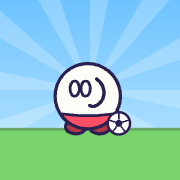
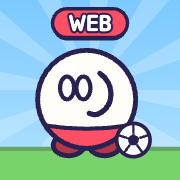
홈 화면 아이콘을 앱 아이콘과 같게 + WEB 표시

diff --git a/tools/icon.html b/tools/icon.html
@@ -2,12 +2,22 @@
 <html><head><meta charset="utf-8"><style>html,body{margin:0;background:#000}canvas{display:block}</style></head>
 <body><canvas id="c"></canvas>
 <script type="module">
-// 앱 아이콘 B안 (안드로이드 아이콘과 같은 그림): 하늘 + 햇살 + 잔디, 빨간 유니폼 동글이 + 공
+// 앱 아이콘 B안 (안드로이드 앱 아이콘과 같은 그림) + 위쪽 "WEB" 표시
+//   ?s=크기  &mode=crop  : 안드로이드 런처에 실제로 보이는 가운데 부분만 (아이폰·일반 아이콘)
+//            &mode=full  : 108 전체 (안드로이드 maskable 아이콘 — 런처가 앱과 똑같이 가운데를 잘라 보여 줌)
+//            &web=0      : WEB 표시 없이
 import { drawMongi, drawBall } from '../js/game/draw.js';
-const S = +(new URLSearchParams(location.search).get('s') || 512);
+const q = new URLSearchParams(location.search);
+const S = +(q.get('s') || 512);
+const full = q.get('mode') === 'full';
+const web = q.get('web') !== '0';
+await new FontFace('Jua', 'url(../assets/jua.ttf)').load().then((f) => document.fonts.add(f));
 const c = document.getElementById('c'); c.width = S; c.height = S;
 const ctx = c.getContext('2d');
-ctx.scale(S / 108, S / 108);
+// 안드로이드 적응형 아이콘: 108 중 가운데 72 가 보인다
+const view = full ? [0, 108] : [18, 72];
+ctx.scale(S / view[1], S / view[1]);
+ctx.translate(-view[0], -view[0]);
 const g = ctx.createLinearGradient(0, 0, 0, 108); g.addColorStop(0, '#6ec3ff'); g.addColorStop(1, '#bfe8ff');
 ctx.fillStyle = g; ctx.fillRect(0, 0, 108, 108);
 ctx.fillStyle = 'rgba(255,255,255,0.22)';
@@ -17,8 +27,20 @@ for (let k = 0; k < 12; k++) {
 }
 ctx.fillStyle = '#79d36b'; ctx.fillRect(0, 76.7, 108, 31.3);
 ctx.fillStyle = 'rgba(43,33,80,0.25)'; ctx.fillRect(0, 76.7, 108, 1.7);
+ctx.save();
 ctx.translate(54, 54); ctx.scale(0.667, 0.667); ctx.translate(-54, -54);
 drawMongi(ctx, 52, 90, 0.98, 0xffff4f64, { shadow: false });
 drawBall(ctx, 80, 84, 10, 0);
+ctx.restore();
+if (web) {
+  // 위쪽 가운데 "WEB" 딱지 (안드로이드 동그란 아이콘 안에도 들어가는 자리)
+  const w = 30, h = 11.5, x = 54 - w / 2, y = 21.5;
+  ctx.beginPath(); ctx.roundRect(x, y + 1.2, w, h, h / 2); ctx.fillStyle = '#2b2150'; ctx.fill();
+  ctx.beginPath(); ctx.roundRect(x, y, w, h, h / 2); ctx.fillStyle = '#ff4f64'; ctx.fill();
+  ctx.lineWidth = 1.4; ctx.strokeStyle = '#2b2150'; ctx.stroke();
+  ctx.font = '9px Jua'; ctx.textAlign = 'center'; ctx.textBaseline = 'middle';
+  ctx.lineJoin = 'round'; ctx.lineWidth = 2; ctx.strokeStyle = '#2b2150'; ctx.strokeText('WEB', 54, y + h / 2 + 0.6);
+  ctx.fillStyle = '#fff'; ctx.fillText('WEB', 54, y + h / 2 + 0.6);
+}
 document.title = 'done';
 </script></body></html>

diff --git a/sw.js b/sw.js
@@ -1,8 +1,8 @@
 /* 한 번 열면 인터넷 없이도 열리게 파일을 저장해 둔다. 새 버전을 올리면 VERSION 을 바꾼다 */
-const VERSION = 'donggle-v4';
+const VERSION = 'donggle-v5';
 const FILES = [
   './', 'index.html', 'manifest.webmanifest', 'css/style.css',
-  'assets/jua.ttf', 'assets/bgm.m4a', 'assets/babam.wav', 'assets/icon-192.png', 'assets/icon-512.png', 'assets/apple-touch-icon.png',
+  'assets/jua.ttf', 'assets/bgm.m4a', 'assets/babam.wav', 'assets/icon-192.png', 'assets/icon-512.png', 'assets/icon-maskable-512.png', 'assets/apple-touch-icon.png',
   'js/app.js', 'js/core.js', 'js/sound.js',
   'js/data/raw.js', 'js/data/items.js', 'js/data/teams.js', 'js/data/legends.js', 'js/data/tournament.js', 'js/data/store.js',
   'js/game/engine.js', 'js/game/draw.js', 'js/game/render.js', 'js/game/tutorial.js',
